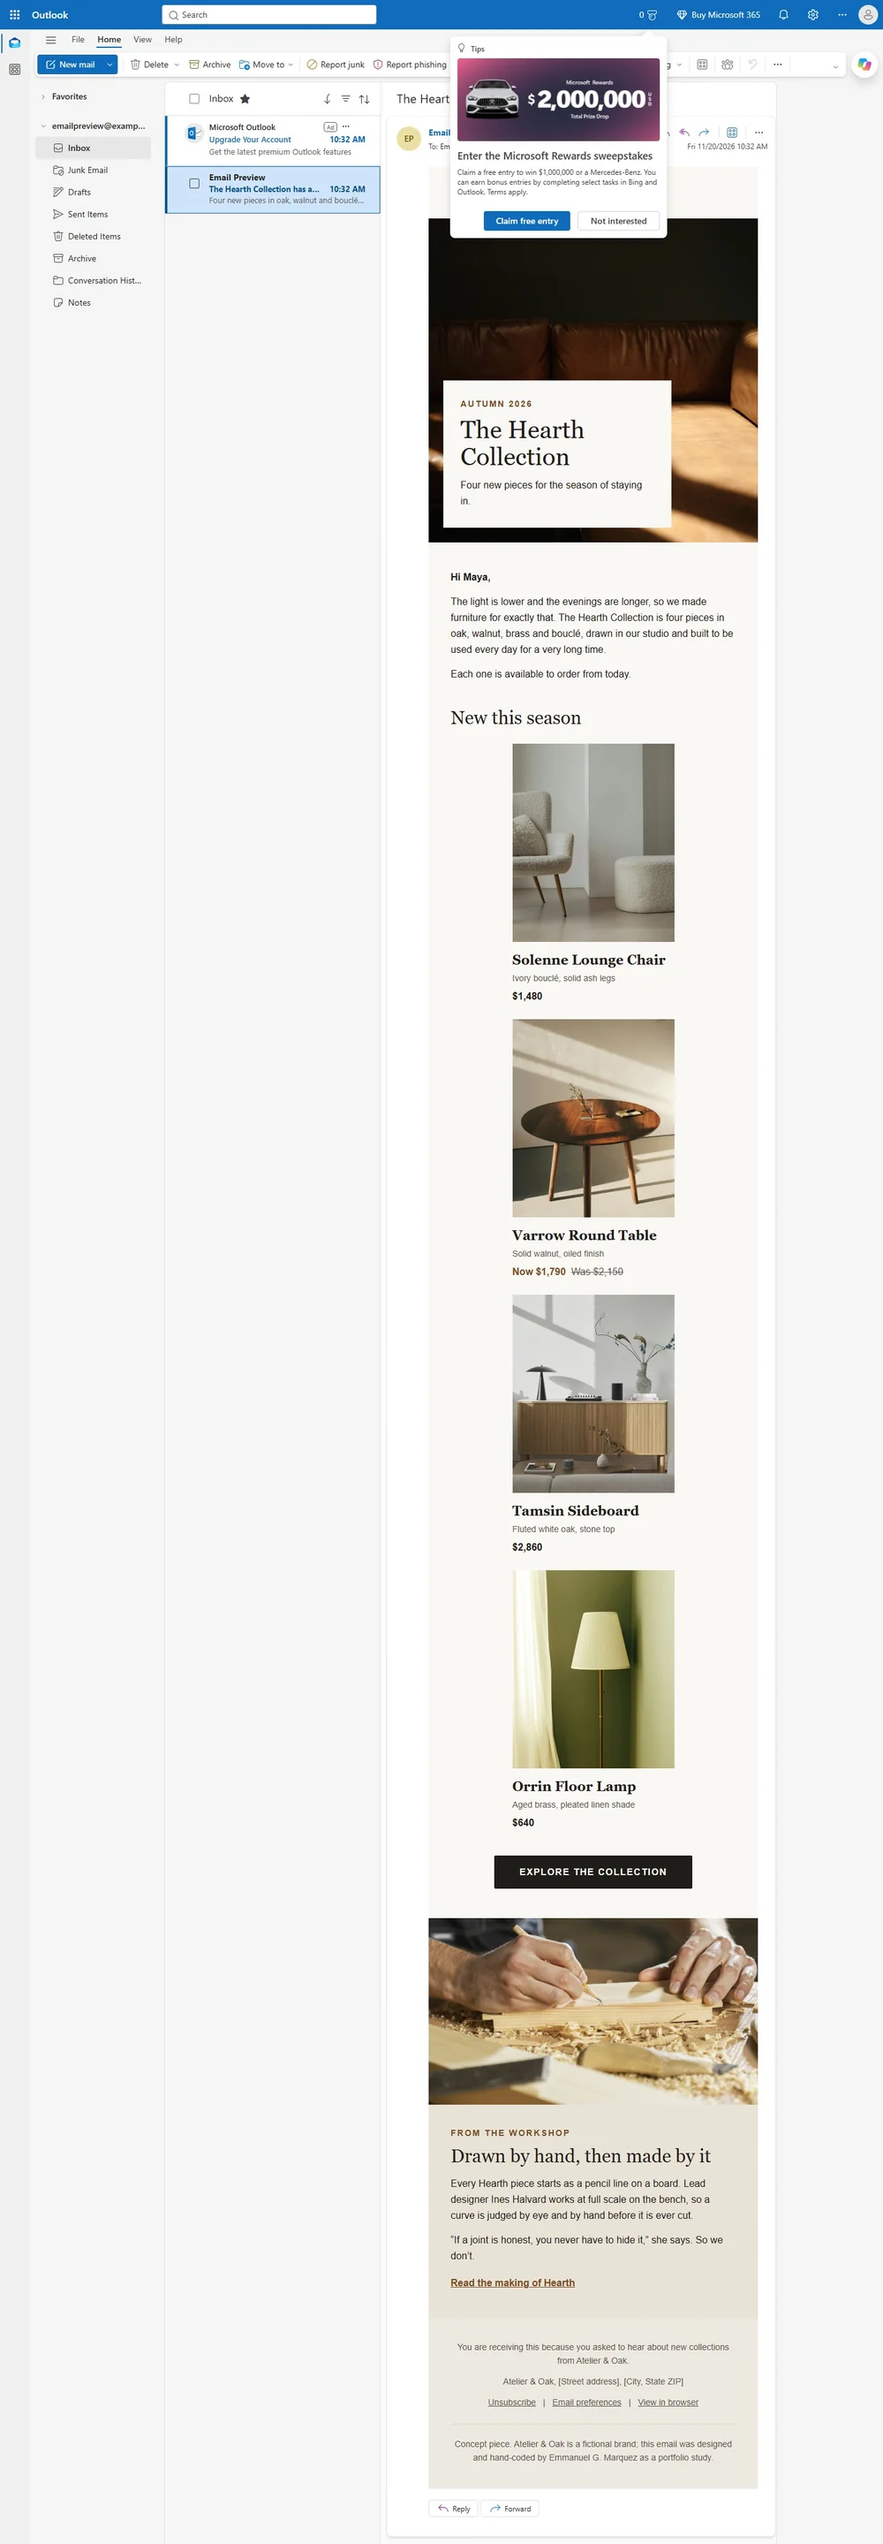
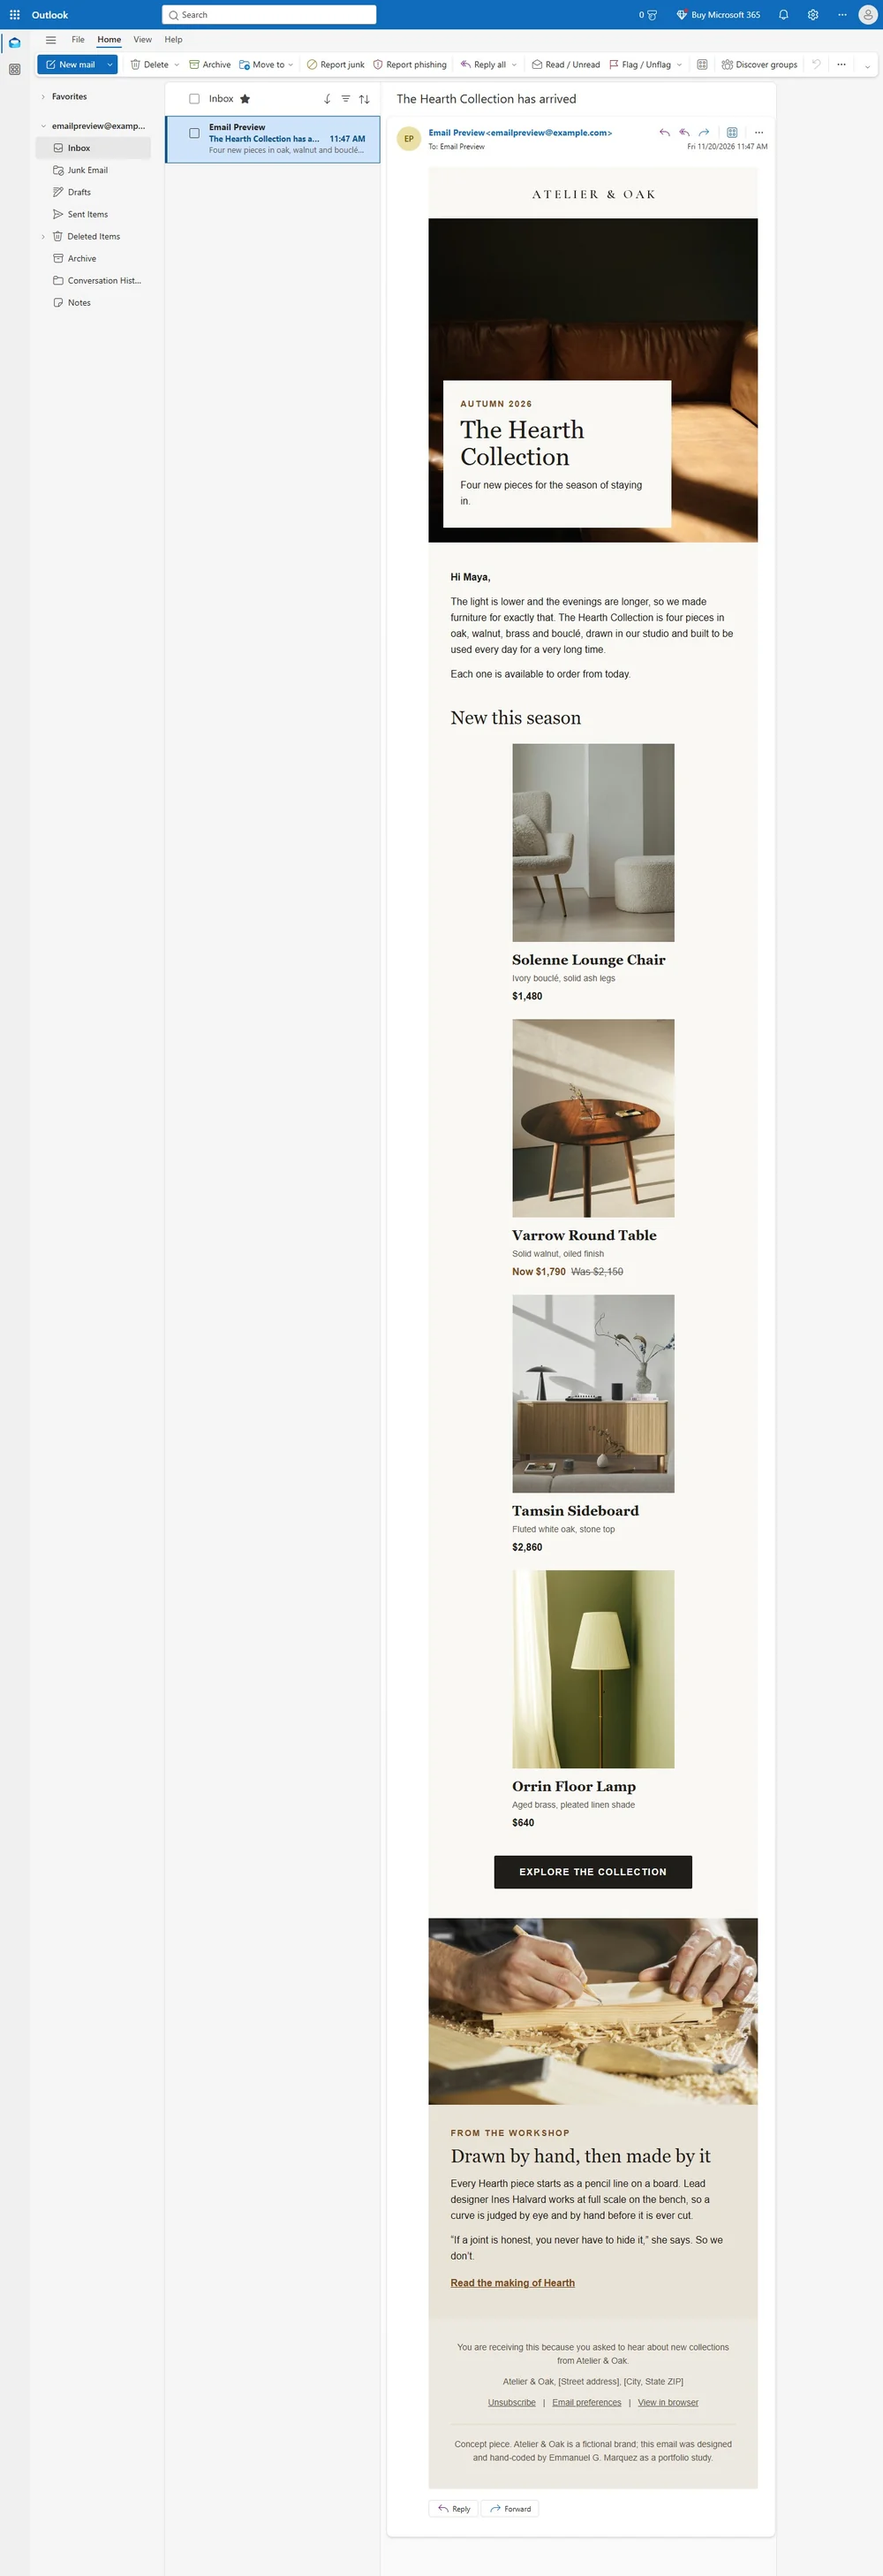
Atelier & Oak: client screenshots from the final Email on Acid run (build 7ead8ca)
Replaces all client renders with the run that includes the Georgia heading
and Outlook dark-mode logo fixes. Outlook.com light now uses the Edge
capture (the Chrome one had a Microsoft Rewards popup over the email). New
Outlook did not render in this run, so Microsoft 365 on Windows 11 takes its
tile. Outlook.com tiles get a note that the grid stacks by design in a
reading pane under 600px. Copy now lists the four Outlook bugs testing caught.

Claude-Session: https://claude.ai/code/session_01MPs5cq67crUZGwCCisiavd

diff --git a/src/data/projects.ts b/src/data/projects.ts
@@ -59,6 +59,8 @@ export type ClientTest = {
   id: string;
   name: string;
   group: "Email on Acid (Mailgun Inspect)" | "Seed send";
+  /** Optional one-line note shown under the client name. */
+  note?: string;
   /** Present only when the owner has added a real screenshot. Without it the client shows as PENDING. */
   image?: ProjectImage;
 };
@@ -292,15 +294,15 @@ const atelier = {
   ),
 };
 
-const atelierClients: [string, string, ClientTest["group"]][] = [
+const atelierClients: [string, string, ClientTest["group"], string?][] = [
   ["outlook-2016-windows", "Outlook 2016, Windows", "Email on Acid (Mailgun Inspect)"],
   ["outlook-2016-windows-125", "Outlook 2016, Windows, 125% scaling", "Email on Acid (Mailgun Inspect)"],
   ["outlook-2019-windows", "Outlook 2019, Windows", "Email on Acid (Mailgun Inspect)"],
   ["outlook-365-windows", "Outlook 365, Windows", "Email on Acid (Mailgun Inspect)"],
   ["outlook-2024-windows-dark", "Outlook 2024, Windows, dark", "Email on Acid (Mailgun Inspect)"],
-  ["outlook-new-windows", "New Outlook, Windows", "Email on Acid (Mailgun Inspect)"],
-  ["outlook-com-light", "Outlook.com, light", "Email on Acid (Mailgun Inspect)"],
-  ["outlook-com-dark", "Outlook.com, dark", "Email on Acid (Mailgun Inspect)"],
+  ["outlook-m365-windows-11", "Microsoft 365, Windows 11", "Email on Acid (Mailgun Inspect)"],
+  ["outlook-com-light", "Outlook.com, light", "Email on Acid (Mailgun Inspect)", "Reading pane under 600px, so the grid stacks by design."],
+  ["outlook-com-dark", "Outlook.com, dark", "Email on Acid (Mailgun Inspect)", "Reading pane under 600px, so the grid stacks by design."],
   ["gmail-web", "Gmail, web", "Email on Acid (Mailgun Inspect)"],
   ["gmail-ios", "Gmail app, iOS", "Email on Acid (Mailgun Inspect)"],
   ["gmail-android", "Gmail app, Android", "Email on Acid (Mailgun Inspect)"],
@@ -312,10 +314,11 @@ const atelierClients: [string, string, ClientTest["group"]][] = [
 ];
 
 /** A client leaves PENDING only when its screenshot exists (see email-samples/atelier-oak/TESTING.md). */
-const atelierClientTests: ClientTest[] = atelierClients.map(([id, name, group]) => ({
+const atelierClientTests: ClientTest[] = atelierClients.map(([id, name, group, note]) => ({
   id,
   name,
   group,
+  note,
   image: optionalImg(
     `/projects/atelier-oak-concept/client-${id}.webp`,
     `${name} test`,
@@ -1127,7 +1130,7 @@ does not ensure profits or protect against losses.
       },
       {
         title: "Real-client testing",
-        body: "Static checks and a Chromium screenshot are not an inbox, so the email was also rendered in real clients on Email on Acid (Mailgun Inspect). That run found two Outlook bugs the static checks missed; both were fixed and re-tested before the screenshots below were taken.",
+        body: "Static checks and a Chromium screenshot are not an inbox, so the email was also rendered in real clients on Email on Acid (Mailgun Inspect). Those runs found four Outlook rendering bugs the static checks missed; all four were fixed and re-tested on every client before the screenshots below were taken.",
       },
     ],
     code: [

diff --git a/src/components/concept-study.tsx b/src/components/concept-study.tsx
@@ -264,7 +264,7 @@ export function ClientTests({ concept }: { concept: ConceptStudy }) {
               {done === 0
                 ? "Not yet. This is the test plan, and every client on it is pending. A client is marked tested only when its real screenshot is added here; the automated checks and Chromium renders above do not count."
                 : done === tests.length
-                  ? "Real renders from Email on Acid (Mailgun Inspect), not emulations. The first run caught two Outlook bugs, the button label going dark in Outlook's dark mode and the layout stretching to 648px in classic Outlook, both fixed before these screenshots were taken. Select any client to see the full render."
+                  ? "Real renders from Email on Acid (Mailgun Inspect), not emulations. Testing caught four Outlook bugs: the button label going dark in dark mode, the layout stretching to 648px, headings falling back to Calibri in Outlook 2019 and later, and the logo fading in dark mode. All were fixed and re-tested before these screenshots were taken. Select any client to see the full render."
                   : "A client is marked tested only when its real screenshot is shown here. The rest are still pending."}
             </p>
             <p className="mt-4 text-sm tabular-nums text-muted">
@@ -305,6 +305,7 @@ export function ClientTests({ concept }: { concept: ConceptStudy }) {
                     )}
                     <p className="mt-3 text-sm leading-snug text-ink">{t.name}</p>
                     <p className="mt-0.5 text-xs uppercase tracking-[0.12em] text-muted">{t.image ? "Tested" : "Pending"}</p>
+                    {t.note && <p className="mt-1 text-xs leading-snug text-muted">{t.note}</p>}
                   </li>
                 ))}
             </ul>

diff --git a/src/data/assets.generated.ts b/src/data/assets.generated.ts
@@ -110,11 +110,11 @@ export const imageSizes: Record<string, { width: number; height: number }> = {
   },
   "/projects/atelier-oak-concept/client-outlook-com-light.webp": {
     "width": 1000,
-    "height": 2879
+    "height": 2915
   },
-  "/projects/atelier-oak-concept/client-outlook-new-windows.webp": {
+  "/projects/atelier-oak-concept/client-outlook-m365-windows-11.webp": {
     "width": 1000,
-    "height": 2909
+    "height": 2873
   },
   "/projects/atelier-oak-concept/client-yahoo-mail.webp": {
     "width": 1000,

diff --git a/email-samples/atelier-oak/TESTING.md b/email-samples/atelier-oak/TESTING.md
@@ -7,14 +7,22 @@ case study page are real client renders from that run, filed as `assets-source/a
 Samsung Mail is not in Mailgun Inspect's client list, so it was replaced on the page by Outlook 2016 at 125%
 scaling and Outlook 2024 dark mode. The seed sends in section 2 have not been done.
 
-The first run found two Outlook bugs that the automated checks did not:
+Testing found four Outlook bugs that the automated checks did not:
 
 1. **Outlook 2024, Windows, dark mode:** the VML button label turned dark on the dark button. Fixed with
    `mso-color-alt:auto` on the label.
 2. **Classic Outlook (2016, 2019, 365, 2024):** the whole email rendered at 648px. The hero cell's 24px padding
    was added around the 600px VML rect. Fixed with `mso-padding-alt:0` on the hero cell and a 552px inner cell.
 
-Both were re-tested on all clients before the screenshots were taken.
+3. **Outlook 2019, 365, Microsoft 365 and 2024:** headings fell back to Calibri. These versions read the first family of
+   the inline stack (the web font), miss it and ignore the MSO Georgia rule. Fixed by starting the inline stack with
+   Georgia and adding Cormorant Garamond in a head rule hidden from Outlook.
+4. **Outlook 2024, dark mode:** the dark logo sat on a darkened logo bar, so only its outline showed. Fixed with a
+   solid light VML band behind the logo in Outlook.
+
+All four were re-tested on every client before the screenshots were taken (final run: build 7ead8ca). New Outlook for
+Windows did not render in the final run, so the page shows Microsoft 365 on Windows 11 in its place. Outlook.com is
+shown from the Edge capture because the Chrome capture had a Microsoft Rewards popup over the email.
 
 ## 0. Before you test: the images have to be online
 
